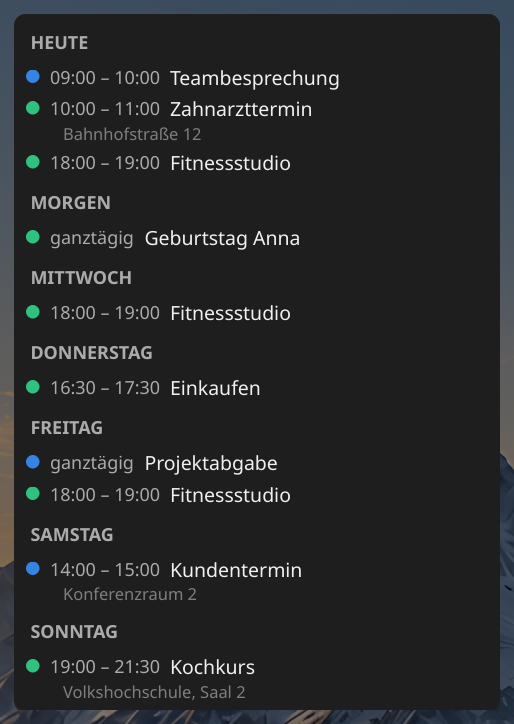
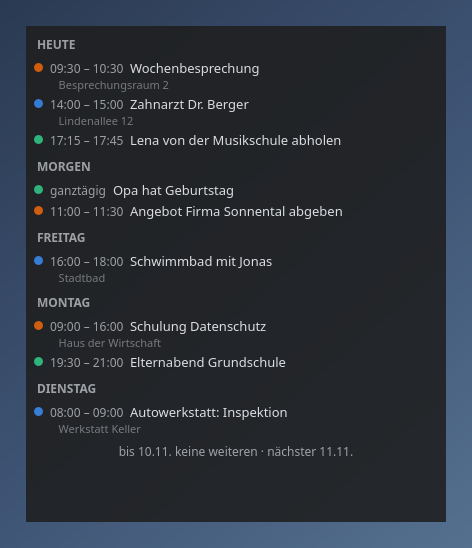
Alle Bildschirmfotos neu, auf dem Stand von 1.8.0
Die alten zeigten die Oberflaeche von vor 1.6.0: ohne Terminquelle,
Kalenderauswahl, Abonnieren-Knopf, Jahreszahl und Hintergrundschalter,
dazu nur zwei Reiter. Ein Kursiv-Hinweis musste das bisher erklaeren -
der ist jetzt hinfaellig.

Neu dabei ist der Reiter "Hilfe", der nie abgebildet war.

Gerendert statt abfotografiert: Unter Wayland laesst sich kein
einzelnes Fenster gezielt aufnehmen. Der Umweg ueber ein Vollbild mit
Zuschnitt nach KWin-Koordinaten las den ganzen Schreibtisch mit und
erwischte beim ersten Versuch fremde Fensterinhalte - das Bild wurde
sofort geloescht. Qt zeichnet seine Fenster auch selbst; das ist
wiederholbar und zeigt garantiert nur erfundene Daten.

Zwei Dinge fielen beim Pruefen auf und sind behoben: Der Termine-
Reiter war leer, weil die Daten aus einem Hintergrund-Thread kommen
und das Rendern schneller war. Und in den Einstellungen stand der
Profilpfad mit Stephans Benutzernamen - jetzt laeuft das Ganze in
einem eigenen Heimatverzeichnis, sodass dort ein neutraler
Beispielpfad steht.

Das Erzeugen liegt als werkzeuge/bilder_bauen.py bei.

Changed region(s): [[0.0, 0.0, 1.0, 1.0]]

diff --git a/werkzeuge/bilder_bauen.py b/werkzeuge/bilder_bauen.py
@@ -1,0 +1,174 @@
+"""Erzeugt die Bildschirmfotos für die Anleitung.
+
+Gerendert statt abfotografiert: Unter Wayland lässt sich kein einzelnes
+Fenster gezielt aufnehmen - man bekommt ein Vollbild und müsste
+zuschneiden, was den ganzen Schreibtisch mitliest und beim ersten
+Versuch prompt fremde Inhalte erwischt hat. Qt kann seine Fenster
+selbst zeichnen; das ist wiederholbar, stört niemanden und liefert
+immer denselben Ausschnitt.
+
+Alle Daten stammen aus dem Fake-Profil (werkzeuge/fakeprofil.py), das
+vorher angelegt sein muss:
+
+    python3 werkzeuge/fakeprofil.py
+    python3 werkzeuge/bilder_bauen.py src/kalenderblick/hilfe/bilder
+"""
+import os
+import shutil
+import sys
+import tempfile
+from pathlib import Path
+
+# Fester, sprechender Pfad statt eines Zufallsnamens: Er steht in den
+# Einstellungen sichtbar auf dem Bild, und „kalenderblick-beispiel“
+# erklärt sich von selbst, wo „/tmp/kb-bilder-6lzo_vuw“ nur Fragen
+# aufwirft.
+ARBEIT = Path("/tmp/kalenderblick-beispiel")
+if ARBEIT.exists():
+    shutil.rmtree(ARBEIT)
+ARBEIT.mkdir(parents=True)
+ECHTES_HEIM = Path.home()
+QUELLE = ECHTES_HEIM / "KALENDERBlick-Fakeprofil/.thunderbird"
+
+# Das Fake-Profil in ein eigenes Heimatverzeichnis kopieren und HOME
+# darauf richten. Dann findet KALENDERBlick es von selbst, und in den
+# Einstellungen steht keine Zeile „Von Hand gewählt: /home/<name>/…“ -
+# der Benutzername hat auf einem öffentlichen Bild nichts zu suchen.
+shutil.copytree(QUELLE, ARBEIT / "heim" / ".thunderbird")
+FAKE = ARBEIT / "heim" / ".thunderbird" / "abc123.default"
+ZIEL = Path(sys.argv[1]) if len(sys.argv) > 1 else Path("bilder-neu")
+ZIEL.mkdir(parents=True, exist_ok=True)
+
+os.environ.update(
+    QT_QPA_PLATFORM="offscreen",
+    HOME=str(ARBEIT / "heim"),
+    XDG_CONFIG_HOME=str(ARBEIT / "config"),
+    XDG_STATE_HOME=str(ARBEIT / "state"),
+    XDG_CACHE_HOME=str(ARBEIT / "cache"),
+)
+
+from PyQt6.QtWidgets import QApplication, QWidget, QVBoxLayout       # noqa: E402
+from PyQt6.QtGui import QPixmap, QPainter, QColor, QLinearGradient   # noqa: E402
+from PyQt6.QtCore import Qt, QRect                                   # noqa: E402
+
+app = QApplication([])
+
+from kalenderblick import config as konfig_modul                     # noqa: E402
+from kalenderblick.gui.liste import TerminListe                      # noqa: E402
+from kalenderblick.gui.fenster import HauptFenster                   # noqa: E402
+from kalenderblick import thunderbird                                # noqa: E402
+
+e = konfig_modul.Einstellungen()
+e.profil = ""                      # automatisch finden
+e.quelle = "thunderbird"
+e.desktop_an = True
+e.speichern()
+
+TERMINE = thunderbird.lies_termine(FAKE, tage_voraus=31)
+print(f"  {len(TERMINE)} Fake-Termine geladen")
+
+
+def hintergrund(breite: int, hoehe: int) -> QPixmap:
+    """Ein ruhiger Verlauf hinter dem Widget, damit man sieht, dass es
+    durchscheint - ohne einen fremden Schreibtisch abzubilden."""
+    bild = QPixmap(breite, hoehe)
+    maler = QPainter(bild)
+    verlauf = QLinearGradient(0, 0, breite, hoehe)
+    verlauf.setColorAt(0.0, QColor("#2b3a52"))
+    verlauf.setColorAt(0.5, QColor("#3d5272"))
+    verlauf.setColorAt(1.0, QColor("#55708f"))
+    maler.fillRect(QRect(0, 0, breite, hoehe), verlauf)
+    maler.end()
+    return bild
+
+
+def widget_bild(ansicht: str, erscheinung: str, name: str,
+                breite: int, hoehe: int, rand: int = 26) -> None:
+    """`hoehe` ist die Obergrenze - gezeigt wird nur, was der Inhalt
+    braucht. So verhält es sich auch im Betrieb: Der Kasten ist nie
+    größer als nötig, sonst stünde durchscheinender Leerraum herum."""
+    liste = TerminListe(ansicht=ansicht, schrift=10, erscheinung=erscheinung,
+                        uhr_groesse="mittel")
+    liste.setze_termine(TERMINE)
+    liste.setFixedWidth(breite)
+    liste.setFixedHeight(hoehe)
+    app.processEvents()
+    if ansicht != "uhr":
+        # Am Inhalt des Rollbereichs messen, nicht am Rahmen: dessen
+        # sizeHint bleibt bei der eingestellten Höhe stehen, und dann
+        # schneidet das Bild mitten in einem Eintrag ab.
+        noetig = liste._inhalt.sizeHint().height() + 14
+        hoehe = max(90, min(noetig, 900))
+    liste.setFixedSize(breite, hoehe)
+    app.processEvents()
+
+    kasten = QWidget()
+    kasten.setFixedSize(breite, hoehe)
+    farbe = "#1e1e1e" if erscheinung == "dunkel" else "#fafafa"
+    kasten.setStyleSheet(f"background: {farbe}; border-radius: 10px;")
+    lay = QVBoxLayout(kasten)
+    lay.setContentsMargins(0, 0, 0, 0)
+    lay.addWidget(liste)
+    kasten.show()
+    app.processEvents()
+
+    gesamt = QPixmap(breite + 2 * rand, hoehe + 2 * rand)
+    maler = QPainter(gesamt)
+    maler.drawPixmap(0, 0, hintergrund(gesamt.width(), gesamt.height()))
+    vorne = QPixmap(kasten.size())
+    vorne.fill(QColor(farbe))
+    kasten.render(vorne)
+    maler.setOpacity(0.88)                 # entspricht der Vorgabe 85 %
+    maler.drawPixmap(rand, rand, vorne)
+    maler.end()
+    gesamt.save(str(ZIEL / name))
+    print(f"  {name}  {gesamt.width()}x{gesamt.height()}")
+
+
+def fenster_bild(reiter: str, name: str, hoehe: int = 760) -> None:
+    f = HauptFenster(verwalte_desktop=False)
+    f.resize(780, hoehe)
+    tabs = f.findChild(type(f.centralWidget())) if False else None
+    from PyQt6.QtWidgets import QTabWidget
+    tw = f.findChild(QTabWidget)
+    for i in range(tw.count()):
+        if reiter.lower() in tw.tabText(i).lower():
+            tw.setCurrentIndex(i)
+            break
+    f.show()
+    # Die Termine kommen aus einem Hintergrund-Thread. Ohne Warten
+    # rendert man einen leeren Reiter - beim ersten Versuch genau so
+    # passiert.
+    import time as _zeit
+    from PyQt6.QtWidgets import QLabel
+    for _ in range(120):
+        app.processEvents()
+        _zeit.sleep(0.05)
+        texte = " ".join(k.text() for k in f.findChildren(QLabel))
+        if "Wochenbesprechung" in texte or "Schreibtisch-Widget" in texte \
+                or "Voraussetzungen" in texte:
+            break
+    for _ in range(10):
+        app.processEvents()
+    bild = QPixmap(f.size())
+    f.render(bild)
+    bild.save(str(ZIEL / name))
+    print(f"  {name}  {bild.width()}x{bild.height()}")
+
+
+print("\n--- Schreibtischwidget ---")
+for ansicht, name, b, h in [
+        ("uhr", "uhr", 300, 290),
+        ("naechste3", "naechste3", 420, 260),
+        ("woche", "woche", 420, 600),
+        ("14tage", "14tage", 420, 600)]:
+    for erscheinung, kennung in (("dunkel", "dunkel"), ("hell", "hell")):
+        widget_bild(ansicht, erscheinung, f"{name}_{kennung}.png", b, h)
+
+print("\n--- Hauptfenster ---")
+fenster_bild("Termine", "hauptfenster_termine.png")
+fenster_bild("Einstellungen", "hauptfenster_einstellungen.png", hoehe=900)
+fenster_bild("Hilfe", "hauptfenster_hilfe.png")
+
+shutil.rmtree(ARBEIT, ignore_errors=True)
+print(f"\n  fertig: {ZIEL}")

diff --git a/src/kalenderblick/hilfe/anleitung.md b/src/kalenderblick/hilfe/anleitung.md
@@ -169,7 +169,7 @@ erscheint also zunächst **nur** das Leistensymbol, kein Fenster auf dem
 Schreibtisch. Ein Klick auf das Symbol öffnet das Hauptfenster mit dem
 Reiter „Termine":
 
-<img src="bilder/hauptfenster_termine.png" alt="Hauptfenster, Reiter Termine" width="340">
+<img src="bilder/hauptfenster_termine.png" alt="Hauptfenster, Reiter Termine" width="420">
 
 Die Termine der nächsten 31 Tage, nach Tagen gruppiert. Farbpunkt zeigt
 den Kalender, bei örtlichen Terminen steht der Ort direkt darunter.
@@ -178,11 +178,7 @@ den Kalender, bei örtlichen Terminen steht der Ort direkt darunter.
 
 Zweiter Reiter im Hauptfenster:
 
-<img src="bilder/hauptfenster_einstellungen.png" alt="Hauptfenster, Reiter Einstellungen" width="340">
-
-*Die Aufnahme stammt aus einer früheren Fassung: „Terminquelle", die
-Kalenderauswahl und der Knopf zum Abonnieren kamen erst mit 1.6.0 und
-1.7.0 dazu. Die Tabelle unten ist auf dem Stand von 1.7.2.*
+<img src="bilder/hauptfenster_einstellungen.png" alt="Hauptfenster, Reiter Einstellungen" width="420">
 
 **Schreibtisch-Widget**
 
@@ -296,6 +292,12 @@ Mit „Einstellungen speichern" werden alle Änderungen sofort auf das
 laufende Schreibtischwidget angewendet - ohne Neustart, mit Ausnahme von
 „Schreibtisch-Widget anzeigen" selbst.
 
+Der dritte Reiter **„Hilfe"** enthält diese Anleitung samt Bildern,
+auch ohne Internet lesbar. Der Knopf darunter öffnet sie zusätzlich im
+Browser:
+
+<img src="bilder/hauptfenster_hilfe.png" alt="Hauptfenster, Reiter Hilfe" width="420">
+
 ## 7. Die vier Ansichten des Schreibtischwidgets
 
 Jede Ansicht gibt es in Dark- und Light-Mode. Der Kasten ist bei allen
@@ -310,14 +312,14 @@ Auskunft erkennbar und nicht als Fehler.
 
 **Uhr + Datum** - Wochentag, Uhrzeit, Datum, sonst nichts:
 
-<img src="bilder/uhr_dunkel.png" alt="Uhr-Ansicht, Dark-Mode" width="220">
-<img src="bilder/uhr_hell.png" alt="Uhr-Ansicht, Light-Mode" width="220">
+<img src="bilder/uhr_dunkel.png" alt="Uhr-Ansicht, Dark-Mode" width="230">
+<img src="bilder/uhr_hell.png" alt="Uhr-Ansicht, Light-Mode" width="230">
 
 **Nächste 3 Termine** - unabhängig vom Datum immer die drei nächsten
 anstehenden, bereits vergangene Termine des Tages fallen raus:
 
-<img src="bilder/naechste3_dunkel.png" alt="Nächste 3 Termine, Dark-Mode" width="260">
-<img src="bilder/naechste3_hell.png" alt="Nächste 3 Termine, Light-Mode" width="260">
+<img src="bilder/naechste3_dunkel.png" alt="Nächste 3 Termine, Dark-Mode" width="300">
+<img src="bilder/naechste3_hell.png" alt="Nächste 3 Termine, Light-Mode" width="300">
 
 **Nächste 7 Tage** - alle Termine der kommenden Woche, nach Tagen
 gruppiert, bis einschließlich des siebten Tages:

diff --git a/TODO.md b/TODO.md
@@ -2,19 +2,6 @@
 
 ## Als Nächstes
 
-- [ ] Bildschirmfotos der Anleitung neu aufnehmen (Stand 03.11.2026
-      veraltet): Sie zeigen die Einstellungen von vor 1.6.0 - ohne
-      Terminquelle, Kalenderauswahl, Abonnieren-Knopf und Jahreszahl,
-      dazu in der alten Fenstergröße. Vorgehen wie am 03.11.2026: Fake-
-      Profil mit `python3 werkzeuge/fakeprofil.py` bauen (liegt seit
-      04.11.2026 im Repo, erzeugt vier Kalender und fünfzehn erfundene
-      Termine auf passenden Wochentagen), `profil` in den Einstellungen
-      darauf zeigen lassen, mit `spectacle -f -b -n -o` aufnehmen und
-      über die KWin-Fensterliste zuschneiden. Niemals mit echten
-      Terminen. Beim Austausch den Kursiv-Hinweis unter dem
-      Einstellungsbild in der Anleitung wieder entfernen - er erklärt
-      nur, warum die Aufnahme älter ist als der Text.
-
 - [ ] Unter Xfce die einzelnen Schalter einzeln prüfen (Position sperren,
       hinter anderen Fenstern, nicht in der Fensterleiste). Der
       Grundbetrieb läuft seit 04.11.2026; die Haken in der README-Tabelle
@@ -41,6 +28,14 @@
       Taktlogik über Tests).
 
 ## Erledigt (installiert auf dem Manjaro-KDE-Rechner)
+
+- [x] Bildschirmfotos neu aufgenommen (04.11.2026, Stand 1.8.0): elf
+      Bilder, erzeugt mit `werkzeuge/bilder_bauen.py` aus dem
+      Fake-Profil. Gerendert statt abfotografiert - unter Wayland
+      lässt sich kein einzelnes Fenster gezielt aufnehmen, und der
+      Umweg über ein Vollbild erwischte prompt fremde Fensterinhalte.
+      Neu dabei: der Reiter „Hilfe", der nie abgebildet war.
+
 
 - [x] Fassungen 1.1.1 bis 1.3.0 an einem Vormittag (03.11.2026), alle
       aus Stephans Durchspielen auf zwei Systemen entstanden:

diff --git a/CHANGELOG.md b/CHANGELOG.md
@@ -1,5 +1,21 @@
 # Änderungsprotokoll
 
+## Unveröffentlicht
+
+**Geändert**
+
+- Alle Bildschirmfotos neu aufgenommen, auf dem Stand von 1.8.0: mit
+  Terminquelle, Kalenderauswahl, Abonnieren-Knopf, Jahreszahl und dem
+  Schalter für den Hintergrundabruf. Dazu erstmals der Reiter „Hilfe",
+  der bisher nirgends abgebildet war. Der Hinweis, dass die Aufnahmen
+  älter seien als der Text, ist damit hinfällig und entfernt.
+- Die Bilder entstehen jetzt mit `werkzeuge/bilder_bauen.py` aus dem
+  Fake-Profil - gerendert statt abfotografiert. Unter Wayland lässt
+  sich kein einzelnes Fenster gezielt aufnehmen; der Umweg über ein
+  Vollbild liest den ganzen Schreibtisch mit und erwischte beim ersten
+  Versuch fremde Fensterinhalte. So ist es wiederholbar und zeigt
+  garantiert nur erfundene Daten.
+
 ## 1.8.0 – 2026-11-04
 
 **Geändert**
